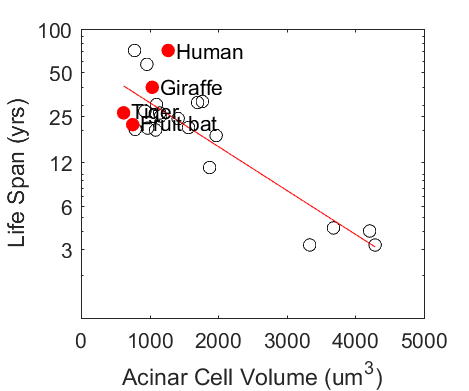
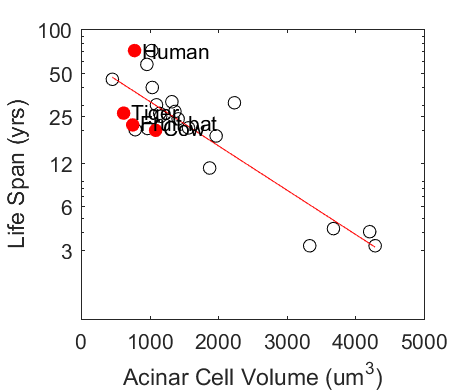
Updated docs (github pages)

diff --git a/docs/index.html b/docs/index.html
@@ -67,25 +67,25 @@
                 
                   <tr>
                     <th scope="row" style="vertical-align: middle;">Cell size vs animal size</th>
-                    <td style="vertical-align: middle;">r = -0.6449276977, p = 0.0006679169022</td>
+                    <td style="vertical-align: middle;">r = -0.7002533021, p = 0.00009729634587</td>
                     
-                      <td> r = -0.4874960512, (controlling for life span), p = 0.018297467</td>
+                      <td> r = -0.5426265316, (controlling for life span), p = 0.006150738805</td>
                     
                   </tr>
                 
                   <tr>
                     <th scope="row" style="vertical-align: middle;">Animal size vs life span</th>
-                    <td style="vertical-align: middle;">r = 0.6579770011, p = 0.0004745422466</td>
+                    <td style="vertical-align: middle;">r = 0.684339349, p = 0.0001614612579</td>
                     
-                      <td> r = 0.2565036089, (controlling for cell size), p = 0.2374272592</td>
+                      <td> r = 0.2024331554, (controlling for cell size), p = 0.3428006082</td>
                     
                   </tr>
                 
                   <tr>
                     <th scope="row" style="vertical-align: middle;">Cell size vs life span</th>
-                    <td style="vertical-align: middle;">r = -0.8707921672, p = 3.138596305e-8</td>
+                    <td style="vertical-align: middle;">r = -0.878788851, p = 7.547746985e-9</td>
                     
-                      <td> r = -0.7757447386, (controlling for animal size), p = 0.00001366062533</td>
+                      <td> r = -0.7676132969, (controlling for animal size), p = 0.00001197751058</td>
                     
                   </tr>
                 
@@ -158,17 +158,17 @@
                 
                   <tr>
                     <th scope="row" style="vertical-align: middle;">Cell size vs animal size</th>
-                    <td style="vertical-align: middle;">r = -0.5354722752, p = 0.01813999432</td>
+                    <td style="vertical-align: middle;">r = -0.5150977425, p = 0.02401304198</td>
                     
-                      <td> r = -0.2045839628, (controlling for life span), p = 0.415455725</td>
+                      <td> r = -0.1664690938, (controlling for life span), p = 0.5091283061</td>
                     
                   </tr>
                 
                   <tr>
                     <th scope="row" style="vertical-align: middle;">Animal size vs life span</th>
-                    <td style="vertical-align: middle;">r = 0.6617717242, p = 0.002027387583</td>
+                    <td style="vertical-align: middle;">r = 0.6763928687, p = 0.001473722838</td>
                     
-                      <td> r = 0.481070473, (controlling for cell size), p = 0.04326705948</td>
+                      <td> r = 0.5191833445, (controlling for cell size), p = 0.02724661683</td>
                     
                   </tr>
                 
@@ -176,7 +176,7 @@
                     <th scope="row" style="vertical-align: middle;">Cell size vs life span</th>
                     <td style="vertical-align: middle;">r = -0.6784589086, p = 0.001406813295</td>
                     
-                      <td> r = -0.5118698745, (controlling for animal size), p = 0.02989047555</td>
+                      <td> r = -0.5228004846, (controlling for animal size), p = 0.0260081398</td>
                     
                   </tr>
                 
@@ -249,42 +249,42 @@
                 
                   <tr>
                     <th scope="row" style="vertical-align: middle;">Growth rate vs animal size</th>
-                    <td style="vertical-align: middle;">r = -0.7584007045, p = 0.001048694092</td>
+                    <td style="vertical-align: middle;">r = -0.7679227203, p = 0.0005130149458</td>
                     
                       <td>
-                      r = -0.3226970983, (controlling for life span), p = 0.2604665394<br>
+                      r = -0.411083617, (controlling for life span), p = 0.1279517205<br>
                       
-                      r = -0.1368501658, (controlling for cell size), p = 0.6408491084<br>
+                      r = -0.4050829643, (controlling for cell size), p = 0.1341698913<br>
                       
-                      r = -0.09057412096, (controlling for life span and cell size), p = 0.7685524024<br>
+                      r = -0.3543570507, (controlling for life span and cell size), p = 0.2138320819<br>
                       </td>
                     
                   </tr>
                 
                   <tr>
                     <th scope="row" style="vertical-align: middle;">Growth rate vs life span</th>
-                    <td style="vertical-align: middle;">r = -0.8870971182, p = 0.0000103835243</td>
+                    <td style="vertical-align: middle;">r = -0.8576811812, p = 0.00002158333402</td>
                     
                       <td>
-                      r = -0.7420967379, (controlling for animal size), p = 0.002373108532<br>
+                      r = -0.6815563708, (controlling for animal size), p = 0.005139431385<br>
                       
-                      r = -0.4404637113, (controlling for cell size), p = 0.1149652418<br>
+                      r = -0.516488049, (controlling for cell size), p = 0.0487015874<br>
                       
-                      r = -0.430539073, (controlling for animal size and cell size), p = 0.1419386471<br>
+                      r = -0.4826677073, (controlling for animal size and cell size), p = 0.08044460089<br>
                       </td>
                     
                   </tr>
                 
                   <tr>
                     <th scope="row" style="vertical-align: middle;">Growth rate vs cell size</th>
-                    <td style="vertical-align: middle;">r = 0.9044863147, p = 0.000003655625269</td>
+                    <td style="vertical-align: middle;">r = 0.8143182096, p = 0.0001229621367</td>
                     
                       <td>
-                      r = 0.5584471665, (controlling for life span), p = 0.03792999781<br>
+                      r = 0.2562818419, (controlling for life span), p = 0.3565304514<br>
                       
-                      r = 0.7614692964, (controlling for animal size), p = 0.001555200232<br>
+                      r = 0.5600451944, (controlling for animal size), p = 0.02991404218<br>
                       
-                      r = 0.4880340999, (controlling for life span and animal size), p = 0.09065395509<br>
+                      r = 0.1298521517, (controlling for life span and animal size), p = 0.6581671443<br>
                       </td>
                     
                   </tr>
@@ -340,42 +340,42 @@
                 
                   <tr>
                     <th scope="row" style="vertical-align: middle;">Growth rate vs animal size</th>
-                    <td style="vertical-align: middle;">r = -0.848553221, p = 0.0004837925262</td>
+                    <td style="vertical-align: middle;">r = -0.8452519004, p = 0.0002742024726</td>
                     
                       <td>
-                      r = -0.2211801058, (controlling for life span), p = 0.5133772889<br>
+                      r = -0.397745952, (controlling for life span), p = 0.2003909082<br>
                       
-                      r = -0.7368057551, (controlling for cell size), p = 0.009692895097<br>
+                      r = -0.720293294, (controlling for cell size), p = 0.008237977873<br>
                       
-                      r = -0.228756768, (controlling for life span and cell size), p = 0.5249686753<br>
+                      r = -0.39215786, (controlling for life span and cell size), p = 0.232916163<br>
                       </td>
                     
                   </tr>
                 
                   <tr>
                     <th scope="row" style="vertical-align: middle;">Growth rate vs life span</th>
-                    <td style="vertical-align: middle;">r = -0.9201543869, p = 0.00002232631277</td>
+                    <td style="vertical-align: middle;">r = -0.8881745494, p = 0.00005006245753</td>
                     
                       <td>
-                      r = -0.6922072248, (controlling for animal size), p = 0.01825496765<br>
+                      r = -0.6144447809, (controlling for animal size), p = 0.03351582344<br>
                       
-                      r = -0.9073958365, (controlling for cell size), p = 0.000114458942<br>
+                      r = -0.7716778872, (controlling for cell size), p = 0.003282169238<br>
                       
-                      r = -0.7961247552, (controlling for animal size and cell size), p = 0.005861826311<br>
+                      r = -0.5372260295, (controlling for animal size and cell size), p = 0.0883423495<br>
                       </td>
                     
                   </tr>
                 
                   <tr>
                     <th scope="row" style="vertical-align: middle;">Growth rate vs cell size</th>
-                    <td style="vertical-align: middle;">r = 0.6261387679, p = 0.02939176635</td>
+                    <td style="vertical-align: middle;">r = 0.694717869, p = 0.008404299298</td>
                     
                       <td>
-                      r = -0.5473483982, (controlling for life span), p = 0.08137643457<br>
+                      r = -0.09396094843, (controlling for life span), p = 0.7714683996<br>
                       
-                      r = 0.08563172843, (controlling for animal size), p = 0.8023276283<br>
+                      r = 0.3580325645, (controlling for animal size), p = 0.2531582753<br>
                       
-                      r = -0.5496369676, (controlling for life span and animal size), p = 0.09979155957<br>
+                      r = -0.06026069149, (controlling for life span and animal size), p = 0.8602932612<br>
                       </td>
                     
                   </tr>
@@ -431,42 +431,42 @@
                 
                   <tr>
                     <th scope="row" style="vertical-align: middle;">Metabolic Rate Vs Animal Size</th>
-                    <td style="vertical-align: middle;">r = -0.9197357938, p = 0.000003241363369</td>
+                    <td style="vertical-align: middle;">r = -0.9467988929, p = 2.917304234e-7</td>
                     
                       <td>
-                      r = -0.8130621083, (controlling for life span), p = 0.0007260827145<br>
+                      r = -0.8724910034, (controlling for life span), p = 0.0000998664967<br>
                       
-                      r = -0.7991031752, (controlling for cell size), p = 0.001048420246<br>
+                      r = -0.8381817888, (controlling for cell size), p = 0.0003455882631<br>
                       
-                      r = -0.7937190015, (controlling for life span and cell size), p = 0.002056325528<br>
+                      r = -0.8353735306, (controlling for life span and cell size), p = 0.0007173183685<br>
                       </td>
                     
                   </tr>
                 
                   <tr>
                     <th scope="row" style="vertical-align: middle;">Metabolic Rate Vs Life Span</th>
-                    <td style="vertical-align: middle;">r = -0.8068080154, p = 0.000488094866</td>
+                    <td style="vertical-align: middle;">r = -0.807739334, p = 0.0004751701012</td>
                     
                       <td>
-                      r = -0.4818719962, (controlling for animal size), p = 0.09542414652<br>
+                      r = -0.4458614192, (controlling for animal size), p = 0.1267527563<br>
                       
-                      r = -0.1529466059, (controlling for cell size), p = 0.6178894541<br>
+                      r = -0.1613601294, (controlling for cell size), p = 0.5984414345<br>
                       
-                      r = 0.01483020205, (controlling for animal size and cell size), p = 0.9635144999<br>
+                      r = -0.1031907431, (controlling for animal size and cell size), p = 0.7496251197<br>
                       </td>
                     
                   </tr>
                 
                   <tr>
                     <th scope="row" style="vertical-align: middle;">Metabolic Rate Vs Cell Size</th>
-                    <td style="vertical-align: middle;">r = 0.8747292231, p = 0.0000423699338</td>
+                    <td style="vertical-align: middle;">r = 0.8660168759, p = 0.00006218993618</td>
                     
                       <td>
-                      r = 0.6701669227, (controlling for animal size), p = 0.01219497117<br>
+                      r = 0.5310128773, (controlling for animal size), p = 0.06186770498<br>
                       
-                      r = 0.5856080015, (controlling for life span), p = 0.03547832127<br>
+                      r = 0.5471573102, (controlling for life span), p = 0.05295746711<br>
                       
-                      r = 0.531679915, (controlling for animal size and life span), p = 0.07522452303<br>
+                      r = 0.336695603, (controlling for animal size and life span), p = 0.284552059<br>
                       </td>
                     
                   </tr>
@@ -522,42 +522,42 @@
                 
                   <tr>
                     <th scope="row" style="vertical-align: middle;">Metabolic Rate Vs Animal Size</th>
-                    <td style="vertical-align: middle;">r = -0.9412190978, p = 0.00004863566128</td>
+                    <td style="vertical-align: middle;">r = -0.9658254725, p = 0.000005726187305</td>
                     
                       <td>
-                      r = -0.7668432296, (controlling for life span), p = 0.01590480616<br>
+                      r = -0.8582085214, (controlling for life span), p = 0.003068133259<br>
                       
-                      r = -0.963896186, (controlling for cell size), p = 0.00002842033878<br>
+                      r = -0.9673720023, (controlling for cell size), p = 0.00002000994161<br>
                       
-                      r = -0.9451458953, (controlling for life span and cell size), p = 0.0003958464202<br>
+                      r = -0.9125053654, (controlling for life span and cell size), p = 0.001566537331<br>
                       </td>
                     
                   </tr>
                 
                   <tr>
                     <th scope="row" style="vertical-align: middle;">Metabolic Rate Vs Life Span</th>
-                    <td style="vertical-align: middle;">r = -0.8540654137, p = 0.001657509544</td>
+                    <td style="vertical-align: middle;">r = -0.864110963, p = 0.001262058093</td>
                     
                       <td>
-                      r = -0.1522203524, (controlling for animal size), p = 0.695824779<br>
+                      r = -0.08082927904, (controlling for animal size), p = 0.8362298208<br>
                       
-                      r = -0.8726644671, (controlling for cell size), p = 0.002137144447<br>
+                      r = -0.8555403038, (controlling for cell size), p = 0.00326606641<br>
                       
-                      r = -0.8007254795, (controlling for animal size and cell size), p = 0.01694427647<br>
+                      r = -0.548858879, (controlling for animal size and cell size), p = 0.1588883887<br>
                       </td>
                     
                   </tr>
                 
                   <tr>
                     <th scope="row" style="vertical-align: middle;">Metabolic Rate Vs Cell Size</th>
-                    <td style="vertical-align: middle;">r = 0.4680214667, p = 0.1725235872</td>
+                    <td style="vertical-align: middle;">r = 0.5112055855, p = 0.1310033379</td>
                     
                       <td>
-                      r = -0.7174438426, (controlling for animal size), p = 0.02955756166<br>
+                      r = -0.542405717, (controlling for animal size), p = 0.1313570606<br>
                       
-                      r = -0.5583364182, (controlling for life span), p = 0.1181896689<br>
+                      r = -0.467282518, (controlling for life span), p = 0.2047080348<br>
                       
-                      r = -0.9064955502, (controlling for animal size and life span), p = 0.001903145283<br>
+                      r = -0.7096329617, (controlling for animal size and life span), p = 0.04864956641<br>
                       </td>
                     
                   </tr>
@@ -649,18 +649,6 @@
                 </div>
               
                 <div class="card text-xs-center">
-                <h6 class="card-header">Human</h6>
-                  <div class="card-block" style="padding:0px;"></div>
-                  <img class="card-img" src="http://www.gll-getalife.com/wp-content/uploads/2013/03/Hanes-Men-White-Innerwear-T-shirt_7d5cc16ca04970e77632790e1ef1cf63_images_1080_1440_mini.jpg" style="width:100%;">
-                </div>
-              
-                <div class="card text-xs-center">
-                <h6 class="card-header">Human</h6>
-                  <div class="card-block" style="padding:0px;"></div>
-                  <img class="card-img" src="http://www.gll-getalife.com/wp-content/uploads/2013/03/Hanes-Men-White-Innerwear-T-shirt_7d5cc16ca04970e77632790e1ef1cf63_images_1080_1440_mini.jpg" style="width:100%;">
-                </div>
-              
-                <div class="card text-xs-center">
                 <h6 class="card-header">Palestine blind mole rat</h6>
                   <div class="card-block" style="padding:0px;"></div>
                   <img class="card-img" src="https://upload.wikimedia.org/wikipedia/commons/3/33/Palestine_Mole-rat_1.jpg" style="width:100%;">
@@ -685,9 +673,9 @@
                 </div>
               
                 <div class="card text-xs-center">
-                <h6 class="card-header">Cat</h6>
+                <h6 class="card-header">Human</h6>
                   <div class="card-block" style="padding:0px;"></div>
-                  <img class="card-img" src="https://upload.wikimedia.org/wikipedia/commons/thumb/1/1e/Large_Siamese_cat_tosses_a_mouse.jpg/1024px-Large_Siamese_cat_tosses_a_mouse.jpg" style="width:100%;">
+                  <img class="card-img" src="http://www.gll-getalife.com/wp-content/uploads/2013/03/Hanes-Men-White-Innerwear-T-shirt_7d5cc16ca04970e77632790e1ef1cf63_images_1080_1440_mini.jpg" style="width:100%;">
                 </div>
               
                 <div class="card text-xs-center">
@@ -703,6 +691,12 @@
                 </div>
               
                 <div class="card text-xs-center">
+                <h6 class="card-header">Cat</h6>
+                  <div class="card-block" style="padding:0px;"></div>
+                  <img class="card-img" src="https://upload.wikimedia.org/wikipedia/commons/thumb/1/1e/Large_Siamese_cat_tosses_a_mouse.jpg/1024px-Large_Siamese_cat_tosses_a_mouse.jpg" style="width:100%;">
+                </div>
+              
+                <div class="card text-xs-center">
                 <h6 class="card-header">Cotton tamarin</h6>
                   <div class="card-block" style="padding:0px;"></div>
                   <img class="card-img" src="https://upload.wikimedia.org/wikipedia/commons/thumb/a/a0/Lisztaffe_-_Cottontop_Tamarin_-_Saguinus_oedipus.jpg/1024px-Lisztaffe_-_Cottontop_Tamarin_-_Saguinus_oedipus.jpg" style="width:100%;">
@@ -712,6 +706,18 @@
                 <h6 class="card-header">Kangaroo</h6>
                   <div class="card-block" style="padding:0px;"></div>
                   <img class="card-img" src="https://upload.wikimedia.org/wikipedia/commons/thumb/0/0d/Kangaroo_and_joey03.jpg/800px-Kangaroo_and_joey03.jpg" style="width:100%;">
+                </div>
+              
+                <div class="card text-xs-center">
+                <h6 class="card-header">Collared peccary</h6>
+                  <div class="card-block" style="padding:0px;"></div>
+                  <img class="card-img" src="https://upload.wikimedia.org/wikipedia/commons/thumb/a/a0/Collared_peccary02_-_melbourne_zoo.jpg/1024px-Collared_peccary02_-_melbourne_zoo.jpg" style="width:100%;">
+                </div>
+              
+                <div class="card text-xs-center">
+                <h6 class="card-header">pig</h6>
+                  <div class="card-block" style="padding:0px;"></div>
+                  <img class="card-img" src="https://previews.123rf.com/images/dennisvdwater/dennisvdwater1405/dennisvdwater140500043/28117451-Wild-boar-Sus-Scrofa-isolated-on-a-white-background-Stock-Photo.jpg" style="width:100%;">
                 </div>
               
                 <div class="card text-xs-center">
@@ -727,9 +733,9 @@
                 </div>
               
                 <div class="card text-xs-center">
-                <h6 class="card-header">Collared peccary</h6>
+                <h6 class="card-header">naked mole rat</h6>
                   <div class="card-block" style="padding:0px;"></div>
-                  <img class="card-img" src="https://upload.wikimedia.org/wikipedia/commons/thumb/a/a0/Collared_peccary02_-_melbourne_zoo.jpg/1024px-Collared_peccary02_-_melbourne_zoo.jpg" style="width:100%;">
+                  <img class="card-img" src="http://www.nationalgeographic.com/content/dam/animals/pictures/mammals/n/naked-mole-rat/naked-mole-rat.adapt.590.1.jpg" style="width:100%;">
                 </div>
               
                 <div class="card text-xs-center">
@@ -745,7 +751,7 @@
                 </div>
               
                 <div class="card text-xs-center">
-                <h6 class="card-header">Psammomys</h6>
+                <h6 class="card-header">Sand rat</h6>
                   <div class="card-block" style="padding:0px;"></div>
                   <img class="card-img" src="https://upload.wikimedia.org/wikipedia/commons/d/d4/Psammomys_obesus%2C_Israel_01.jpg" style="width:100%;">
                 </div>
@@ -766,6 +772,12 @@
                 <h6 class="card-header">Etruscan shrew</h6>
                   <div class="card-block" style="padding:0px;"></div>
                   <img class="card-img" src="https://upload.wikimedia.org/wikipedia/commons/thumb/f/ff/Suncus_etruscus.jpg/1024px-Suncus_etruscus.jpg" style="width:100%;">
+                </div>
+              
+                <div class="card text-xs-center">
+                <h6 class="card-header">Human</h6>
+                  <div class="card-block" style="padding:0px;"></div>
+                  <img class="card-img" src="http://www.gll-getalife.com/wp-content/uploads/2013/03/Hanes-Men-White-Innerwear-T-shirt_7d5cc16ca04970e77632790e1ef1cf63_images_1080_1440_mini.jpg" style="width:100%;">
                 </div>
               
                 <div class="card text-xs-center">
@@ -793,15 +805,9 @@
                 </div>
               
                 <div class="card text-xs-center">
-                <h6 class="card-header">pig</h6>
+                <h6 class="card-header">White rhinoceros</h6>
                   <div class="card-block" style="padding:0px;"></div>
-                  <img class="card-img" src="https://previews.123rf.com/images/dennisvdwater/dennisvdwater1405/dennisvdwater140500043/28117451-Wild-boar-Sus-Scrofa-isolated-on-a-white-background-Stock-Photo.jpg" style="width:100%;">
-                </div>
-              
-                <div class="card text-xs-center">
-                <h6 class="card-header">naked mole rat</h6>
-                  <div class="card-block" style="padding:0px;"></div>
-                  <img class="card-img" src="http://www.nationalgeographic.com/content/dam/animals/pictures/mammals/n/naked-mole-rat/naked-mole-rat.adapt.590.1.jpg" style="width:100%;">
+                  <img class="card-img" src="https://www.google.co.il/url?sa=i&amp;rct=j&amp;q=&amp;esrc=s&amp;source=images&amp;cd=&amp;cad=rja&amp;uact=8&amp;ved=0ahUKEwieiPL8-6bVAhUIaRQKHZwHACMQjRwIBw&amp;url=http%3A%2F%2Felelur.com%2Fmammals%2Fwhite-rhino.html&amp;psig=AFQjCNFJlBwkGKj61CeaHrGg6euam9j1cg&amp;ust=1501159162867872" style="width:100%;">
                 </div>
               
             
